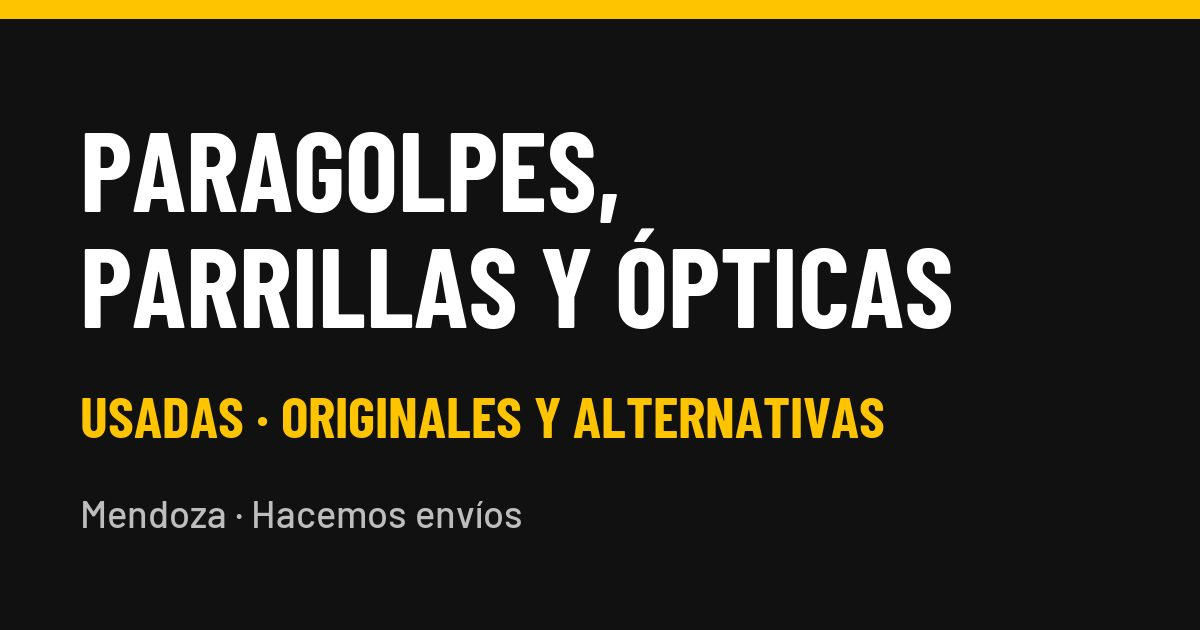
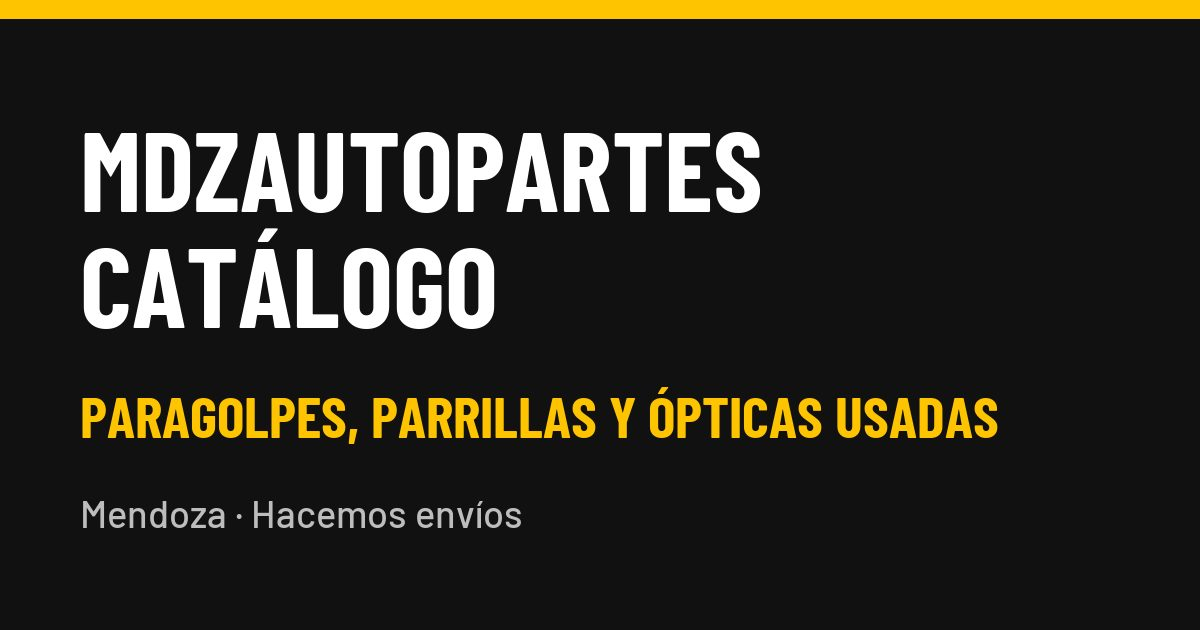
Nombre: MDZAUTOPARTES CATÁLOGO

diff --git a/index.html b/index.html
@@ -3,11 +3,11 @@
 <head>
 <meta charset="utf-8">
 <meta name="viewport" content="width=device-width, initial-scale=1, viewport-fit=cover">
-<title>Paragolpes, parrillas y ópticas usadas · Mendoza</title>
+<title>MDZAUTOPARTES CATÁLOGO · Paragolpes, parrillas y ópticas usadas · Mendoza</title>
 <meta name="description" content="Venta de paragolpes, parrillas y ópticas usadas, originales y alternativas, con fotos reales. Hacemos envíos. Mendoza. Consultá por WhatsApp.">
 <meta name="theme-color" content="#111111">
 <meta property="og:type" content="website">
-<meta property="og:title" content="Paragolpes, parrillas y ópticas usadas · Mendoza">
+<meta property="og:title" content="MDZAUTOPARTES CATÁLOGO · Paragolpes, parrillas y ópticas usadas">
 <meta property="og:description" content="Paragolpes, parrillas y ópticas usadas, originales y alternativas, con fotos reales. Hacemos envíos. Mirá el stock y consultanos por WhatsApp.">
 <meta property="og:image" content="https://cubiertasmdz.github.io/autopartes/assets/og.jpg">
 <meta property="og:url" content="https://cubiertasmdz.github.io/autopartes/">
@@ -15,13 +15,13 @@
 <link rel="preconnect" href="https://fonts.googleapis.com">
 <link rel="preconnect" href="https://fonts.gstatic.com" crossorigin>
 <link href="https://fonts.googleapis.com/css2?family=Barlow+Condensed:wght@600;700;800&family=Barlow:wght@400;500;600;700&display=swap" rel="stylesheet">
-<link rel="stylesheet" href="assets/style.css?v=1">
+<link rel="stylesheet" href="assets/style.css?v=2">
 </head>
 <body>
 <header class="top">
   <div class="wrap">
-    <h1>Paragolpes, parrillas y ópticas</h1>
-    <p class="claim">usadas · originales y alternativas</p>
+    <h1>MDZAUTOPARTES <span class="h1-sub">CATÁLOGO</span></h1>
+    <p class="claim">Paragolpes, parrillas y ópticas usadas</p>
     <p class="loc">
       <svg viewBox="0 0 24 24" width="20" height="20" aria-hidden="true"><path d="M3 6.5h11v9H3zM14 9.5h4l3 3v3h-7z" fill="none" stroke="currentColor" stroke-width="1.8" stroke-linejoin="round"/><circle cx="7" cy="17.5" r="1.8" fill="var(--negro)" stroke="currentColor" stroke-width="1.8"/><circle cx="17.5" cy="17.5" r="1.8" fill="var(--negro)" stroke="currentColor" stroke-width="1.8"/></svg>
       Mendoza · Hacemos envíos

diff --git a/assets/style.css b/assets/style.css
@@ -357,3 +357,8 @@ a { color: inherit; }
 @media (prefers-reduced-motion: reduce) {
   *, *::before, *::after { transition-duration: 1ms !important; animation-duration: 1ms !important; }
 }
+
+/* nombre del sitio: MDZAUTOPARTES / CATÁLOGO */
+.top h1 { max-width: none; overflow-wrap: anywhere; }
+.h1-sub { display: block; font-size: .55em; letter-spacing: .12em; margin-top: 4px; }
+.top h1 + .claim { margin-top: 12px; }

diff --git a/tools/catalogo.py b/tools/catalogo.py
@@ -293,8 +293,8 @@ def og_imagen():
     mid = ImageFont.truetype(str(FONTS / "BarlowCondensed-Bold.ttf"), 58)
     small = ImageFont.truetype(str(FONTS / "Barlow-Medium.ttf"), 38)
     d.rectangle([0, 0, 1200, 18], fill="#FFC400")
-    d.text((80, 100), "PARAGOLPES,\nPARRILLAS Y ÓPTICAS", font=big, fill="white", spacing=4)
-    d.text((80, 380), "USADAS · ORIGINALES Y ALTERNATIVAS", font=mid, fill="#FFC400")
+    d.text((80, 100), "MDZAUTOPARTES\nCATÁLOGO", font=big, fill="white", spacing=4)
+    d.text((80, 380), "PARAGOLPES, PARRILLAS Y ÓPTICAS USADAS", font=mid, fill="#FFC400")
     linea = CONFIG["ubicacion"] + (" · Hacemos envíos" if CONFIG.get("envios") else "")
     d.text((80, 490), linea, font=small, fill="#BDBDBD")
     im.save(destino, quality=82, optimize=True, progressive=True)
